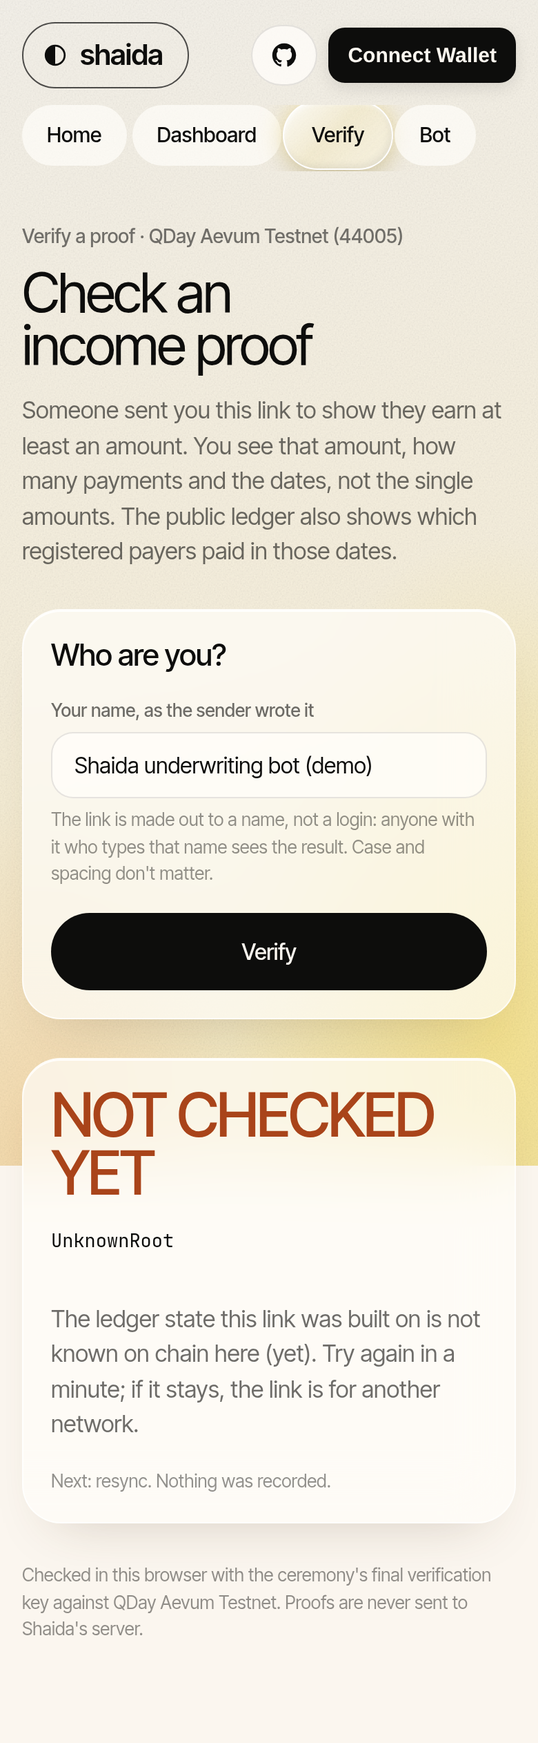
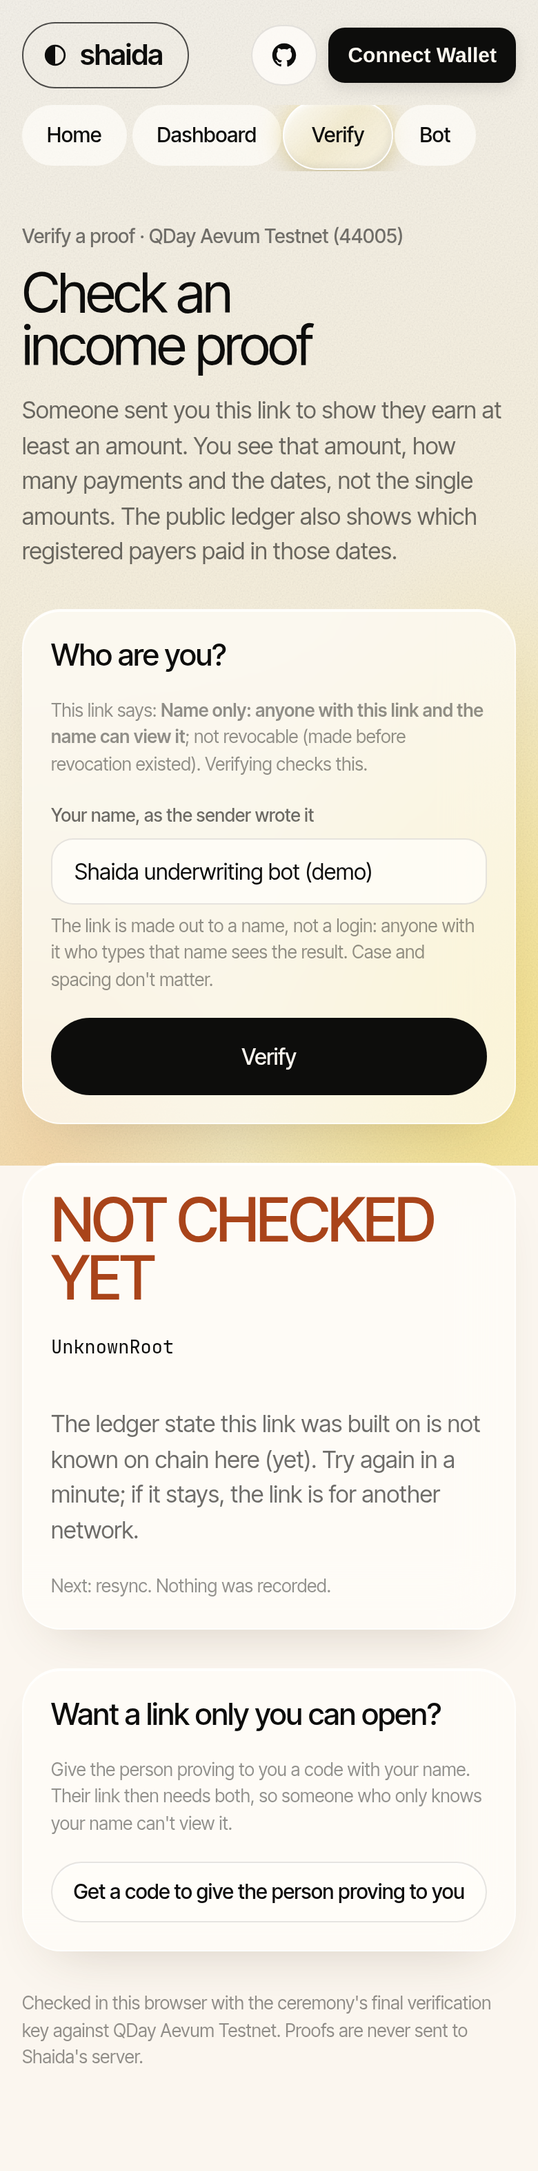
Revocation and reader codes work live on Aevum: Ada revoked a code-protected link and Bola's page said REVOKED
The builder clicked the live check on shaida.onrender.com at fc4ba32:
- Bola's code gives VALID with name and code, and WrongReader with the name alone.
- Ada revokes from Shared proofs, and Bola then gets REVOKED in block 4139250.
- Run 2's v1 link is still VALID and labelled not revocable.
Seven of the builder's eight screenshots are in evidence/revoke-live-44005/. The eighth showed part of Bola's code
and was left out.

The agent checked, read-only:
- Exactly one Revoked event since the deploy (blocks 4135878–4139990): tx 0x920fd1f6…, sent by the relayer
  (nonce 23, its latest), 77,796 gas.
- The relayer's balance fell by exactly that gas, and revokedAt(salt) = 4139250.
- The budget ledger has rows D1 (deploy) and V1 (revoke).

make judge-ui now also checks the live revoke on chain, run 1's "not revocable" label and the reader-code card,
with the code masked. It passed against the live site at 390 px, with nothing sent.

shaida-sdk 0.2.0 is on npm. Its registry integrity equals the tarball packed at a801d64, and the tag
shaida-sdk-v0.2.0 points at fc4ba32. npm-check now records each version's packed integrity and writes one file per
version. Its first 0.2.0 run failed on the hard-coded 0.1.0 integrity; that log is kept.

Records:
- CLAIMS: CL56 and CL57 carry the live results; new CL59 for the npm 0.2.0 release.
- README: judge path step 6, and the SDK lines.
- SUBMISSION, the SDK README and PUBLISHING are updated.
[…]

Changed region(s): [[0.0, 0.0, 1.0, 0.958]]

diff --git a/CLAIMS.md b/CLAIMS.md
@@ -56,7 +56,8 @@ title). Refuted or demoted claims stay here, marked NOT PROVEN, with the reason 
 | CL52 | The web app's network config is required and checked as a whole: an unset, unknown or repeated `NEXT_PUBLIC_NETWORKS` key, or a listed network without valid contract addresses, is the named refusal `WebConfigError` at build and at server start (exit 78), never a fallback to production. The agent card says `NotConfigured` instead of a chain id when there is no network. The income key's default of "final" is deliberate. | PROVEN | `web/src/lib/web-config.ts` `test:W10` `test:W11` `test:W12` `test:W13` `test:W14` `test:W15` `test:U19f` `test:P01` `CLAUDE.md` |
 | CL53 | `shaida-sdk` (0.1.0, verify side) verifies a Shaida link with the Aevum RPC as its only network: VALID with the proven sum, count and ledger dates, or INVALID / INCONCLUSIVE with a closed code. A link refused on its content reads nothing. A down RPC, a chain behind the proof, an RPC on another chain or a bad reader name is INCONCLUSIVE, never a pass. An edited verification key or network config is refused by its pinned hash. `underwrite` runs the bot's engine in-process and gives the live bot's own decision ids. The public API equals the README's reference, and the bundle inlines no GPL code and names no host but the bundled RPC. | PROVEN | `packages/sdk` `test:S01` `test:S03` `test:S04` `test:S05` `test:S06` `test:S07` `test:S08` `test:S09` `test:S10` `test:S11` `test:S12` `test:S13` `test:S14` `test:S15` `test:S16` `test:S17` `evidence/sdk/live-44005.md` |
 | CL54 | Integrators have two working examples that import `shaida-sdk` only. `examples/verify-node.mjs` (13 lines) and the `examples/rental-check` page (a demo landlord platform, run in headless Chromium at 390 px) both verify against the fork fixture and against run 1 on 44005. The tarball to publish (`shaida-sdk`, its manifest without devDependencies, scripts or any `@shaida/` name) installs into an empty project with npm, and the Node example runs from there. | PROVEN | `examples/verify-node.mjs` `examples/rental-check/app.js` `test:S18` `test:S19` `evidence/sdk/rental-check-390.md` `evidence/sdk/pack.md` |
-| CL55 | `shaida-sdk@0.1.0` is on npm (https://www.npmjs.com/package/shaida-sdk). The registry's tarball has the same sha512 as the one packed at 134d704, and `npm install shaida-sdk@0.1.0` from registry.npmjs.org into an empty project runs `examples/verify-node.mjs` (run 1 on 44005: VALID) and typechecks a nodenext consumer. | PROVEN | `packages/sdk/scripts/npm-check.mjs` `evidence/sdk/npm-install.md` `evidence/sdk/pack.md` |
-| CL56 | A holder can revoke a proof link made since D35, and every verifier then refuses it. Its salt is Poseidon(4, a fresh secret kept in the holder's vault); `Revocations.revoke(secret)` records the salt's block once (a second revoke and a secret of 0 or ≥ the field order are refused by name), and only the secret's holder can mark that salt. The core verification reads `revokedAt(salt)` at the pinned block for every link, v1 included: a revoked link is INVALID ProofRevoked with the block and time, also when edited to say v1; an unreadable registry is INCONCLUSIVE, never VALID; an old v1 link stays VALID and is labelled not revocable. The bot DECLINEs a revoked link and is INCONCLUSIVE when the registry can't be read; `shaida-sdk` 0.2.0 does the same. The relayer's revoke route sends one legacy tx per salt, ever, through a lost answer, a restart and two processes at once, never logs the secret, and counts against the budget. Fork: a whole revoke tx is 77,784–77,796 gas, the deploy 237,696. | PROVEN | `contracts/src/Revocations.sol` `test:RV01` `test:RV02` `test:RV03` `test:RV04` `test:RV05` `test:RV10` `test:RV11` `test:RV12` `test:RV13` `test:RV14` `test:RV15` `test:RP01` `test:U30` `test:U31` `test:S20` `test:S21` `test:S22` `test:R40` `test:R41` `test:R42` `test:R43` `test:R46` `test:RV20` `test:RV22` `test:RV23` `evidence/revocations-gas.md` `evidence/mutation-revoke-code.md` `evidence/revocations-44005.md` |
-| CL57 | Reader codes (D36): /v makes an 80-bit code (16 Crockford base32 characters) in the browser for the reader to give the person proving to them; a link built with it binds Poseidon(5, nameHash, Poseidon(code)) and verifies VALID only with that name and code. The code is not in the link and the vault has no field for it. The bot stays name-only: a code-protected link is DECLINE WrongReader. Removing the code binding, or accepting a code link without a code, fails the tests named for it. | PROVEN | `packages/shaida-proofs/src/reader-code.ts` `test:RC01` `test:RC02` `test:RC03` `test:RC04` `test:RC05` `test:RC06` `test:RC07` `test:RV24` `test:U32` `test:S24` `evidence/mutation-revoke-code.md` `evidence/reader-code-work.md` |
+| CL55 | `shaida-sdk@0.1.0` is on npm (https://www.npmjs.com/package/shaida-sdk). The registry's tarball has the same sha512 as the one packed at 134d704, and `npm install shaida-sdk@0.1.0` from registry.npmjs.org into an empty project runs `examples/verify-node.mjs` (run 1 on 44005: VALID) and typechecks a nodenext consumer. | PROVEN | `packages/sdk/scripts/npm-check.mjs` `evidence/sdk/npm-install-0.1.0.md` `evidence/sdk/pack.md` |
+| CL56 | A holder can revoke a proof link made since D35, and every verifier then refuses it. Its salt is Poseidon(4, a fresh secret kept in the holder's vault); `Revocations.revoke(secret)` records the salt's block once (a second revoke and a secret of 0 or ≥ the field order are refused by name), and only the secret's holder can mark that salt. The core verification reads `revokedAt(salt)` at the pinned block for every link, v1 included: a revoked link is INVALID ProofRevoked with the block and time, also when edited to say v1; an unreadable registry is INCONCLUSIVE, never VALID; an old v1 link stays VALID and is labelled not revocable. The bot DECLINEs a revoked link and is INCONCLUSIVE when the registry can't be read; `shaida-sdk` 0.2.0 does the same. The relayer's revoke route sends one legacy tx per salt, ever, through a lost answer, a restart and two processes at once, never logs the secret, and counts against the budget. Fork: a whole revoke tx is 77,784–77,796 gas, the deploy 237,696. Live on 44005 (site at fc4ba32, Revocations `0x3b19c8f3…f2e4`, deploy 237,696 gas): Ada (demo) revoked her code-protected link from Shared proofs; the relayer sent one revoke (block 4139250, 77,796 gas), the only revoke since the deploy; Bola's /v then said REVOKED with that block. Old links stay VALID with the registry live (run 1 in the browser and the SDK, run 2 in the browser), and the bot's sample keeps its decision ids. | PROVEN | `contracts/src/Revocations.sol` `test:RV01` `test:RV02` `test:RV03` `test:RV04` `test:RV05` `test:RV10` `test:RV11` `test:RV12` `test:RV13` `test:RV14` `test:RV15` `test:RP01` `test:U30` `test:U31` `test:S20` `test:S21` `test:S22` `test:R40` `test:R41` `test:R42` `test:R43` `test:R46` `test:RV20` `test:RV22` `test:RV23` `evidence/revocations-gas.md` `evidence/mutation-revoke-code.md` `evidence/revocations-44005.md` `evidence/revoke-live-44005.md` `evidence/judge-ui/report-390.md` |
+| CL57 | Reader codes (D36): /v makes an 80-bit code (16 Crockford base32 characters) in the browser for the reader to give the person proving to them; a link built with it binds Poseidon(5, nameHash, Poseidon(code)) and verifies VALID only with that name and code. The code is not in the link and the vault has no field for it. The bot stays name-only: a code-protected link is DECLINE WrongReader. Removing the code binding, or accepting a code link without a code, fails the tests named for it. Live on 44005: Bola (demo) made a code on /v, Ada (demo) built a link for "Landlord Bola" with it (labelled Code-protected), and Bola got VALID with his name and code and WrongReader with his name alone. | PROVEN | `packages/shaida-proofs/src/reader-code.ts` `test:RC01` `test:RC02` `test:RC03` `test:RC04` `test:RC05` `test:RC06` `test:RC07` `test:RV24` `test:U32` `test:S24` `evidence/mutation-revoke-code.md` `evidence/reader-code-work.md` `evidence/revoke-live-44005.md` |
 | CL58 | What revocation and reader codes change for a reader and an observer, measured by the privacy fixture's `--revoke` run on the fork (same plan as the fixes run): on Ada's code-protected link the name "Landlord Bola" no longer confirms the reader hash (before, and on Chidi's name-only link, the name matches); the leaf range, payer ids and total bounds a reader learns are unchanged ([5, 16] for Ada's 7.45). Chidi's revocation shows anyone its block and time, sent by the relayer, not the holder; with no attest of that link, the observer cannot tie the revoke tx to a payment, payer or holder. Observer results otherwise equal the fixes run (A5 8/8, A6 3/3, A3 6/8, A2 16/28, A1 0/8). A repeat revoke request is answered from the first record with nothing sent, and the reader code is in neither the fixture's output nor its log. | PROVEN | `evidence/privacy-audit.md` `evidence/privacy-audit/reader-fork-revoke.json` `evidence/privacy-audit/observer-fork-revoke.json` `packages/shaida-pay/scripts/privacy-fixture.ts` |
+| CL59 | `shaida-sdk@0.2.0` is on npm (https://www.npmjs.com/package/shaida-sdk/v/0.2.0, dist-tag latest) and tagged `shaida-sdk-v0.2.0` on fc4ba32. The registry's tarball has the same sha512 as the one packed at a801d64, whose bundled network names Revocations `0x3b19c8f3…f2e4` under the pin `ccaf1682…ca7b`. `npm install shaida-sdk@0.2.0` from registry.npmjs.org into an empty project runs `examples/verify-node.mjs` (run 1 on 44005: VALID) and typechecks a nodenext consumer. With the registry live, the SDK's live check passes every row, and the bot's sample link gives the same decision ids as 0.1.0. | PROVEN | `evidence/sdk/npm-install-0.2.0.md` `evidence/sdk/pack.md` `evidence/sdk/live-44005.md` `packages/sdk/scripts/npm-check.mjs` `test:S12b` |

diff --git a/evidence/judge-ui/report-390.md b/evidence/judge-ui/report-390.md
@@ -4,32 +4,36 @@ Generated by `node tools/ui-judge-live.mjs --width 390 --base https://shaida.onr
 
 Result: passed
 
-- 2026-11-25T07:29:05.758Z /api/health: commit 9aec40618ec00cdea758e2cd0996eb0d1623bc53, networks [{"key":"aevum","chainId":44005}], store redis
-- 2026-11-25T07:29:10.098Z landing: "See a live proof" links run 1's proof (1601 characters)
-- 2026-11-25T07:29:13.073Z screenshot 390-01-landing.png at 390 px (horizontal overflow 0px)
-- 2026-11-25T07:29:19.318Z Landlord Bola → VALID: VALID Paid at least 3 tUSD8 in 3 payments from registered payers, between 22 Nov 2026 and 22 Nov 2026. At least 3 tUSD8 Count 3 payments Period 22 Nov 2026 – 22
-- 2026-11-25T07:29:20.156Z Check on-chain: IncomeVerifier.check passed for 1 proof at block 4070657. Nothing was sent.
-- 2026-11-25T07:29:21.651Z screenshot 390-02-valid-on-chain.png at 390 px (horizontal overflow 0px)
-- 2026-11-25T07:29:26.308Z threshold edited in the link (3 → 4 tUSD8) → INVALID ProofInvalid: NOT VALID ProofInvalid This link does not prove what it says. It may have been edited, or it is not a Shaida proof link. Next: rebuild proof
-- 2026-11-25T07:29:27.438Z screenshot 390-03-attack-threshold.png at 390 px (horizontal overflow 0px)
-- 2026-11-25T07:29:31.129Z another reader name (Tenant Chidi) → INVALID WrongReader: NOT VALID WrongReader This link was made for someone else. Check the spelling of your name, or ask for a link made for you. Next: ask for a 
-- 2026-11-25T07:29:32.168Z screenshot 390-04-attack-reader.png at 390 px (horizontal overflow 0px)
-- 2026-11-25T07:29:35.937Z expiry edited in the link (+30 days) → INVALID ContextMismatch: NOT VALID ContextMismatch The link's reader, expiry or salt do not match its proofs. It was altered. Next: link was altered. Nothing was rec
-- 2026-11-25T07:29:36.980Z screenshot 390-05-attack-expiry.png at 390 px (horizontal overflow 0px)
-- 2026-11-25T07:29:40.766Z a malformed link (error state) → INVALID ProofInvalid: NOT VALID ProofInvalid This link does not prove what it says. It may have been edited, or it is not a Shaida proof link. Next: rebuild proof
-- 2026-11-25T07:29:41.803Z screenshot 390-06-error-malformed.png at 390 px (horizontal overflow 0px)
-- 2026-11-25T07:29:45.966Z a proof over a ledger root 44005 does not know (stale/resync state) → INCONCLUSIVE UnknownRoot: NOT CHECKED YET UnknownRoot The ledger state this link was built on is not known on chain here (yet). Try again in a minute; if it stays, th
-- 2026-11-25T07:29:47.163Z screenshot 390-07-inconclusive-unknown-root.png at 390 px (horizontal overflow 0px)
-- 2026-11-25T07:29:51.846Z README console snippet (threshold → 4 tUSD8) pasted on the page → INVALID ProofInvalid
-- 2026-11-25T07:29:52.956Z screenshot 390-07b-attack-console-snippet.png at 390 px (horizontal overflow 0px)
-- 2026-11-25T07:29:53.598Z /v with no fragment (empty state): No proof in this link Open the full link you were sent: the proof is the long part after #.
-- 2026-11-25T07:29:54.787Z screenshot 390-08-empty-v.png at 390 px (horizontal overflow 0px)
-- 2026-11-25T07:29:55.433Z /app in a fresh profile (no vault, no wallet): Dashboard · QDay Aevum Testnet (44005) Your private payments Everything here is read from the chain or from the vault in this browser. Secrets never leave it. Vault locked: counts show — until you unl
-- 2026-11-25T07:29:57.178Z screenshot 390-09-dashboard-fresh.png at 390 px (horizontal overflow 0px)
-- 2026-11-25T07:30:01.413Z bot rent-check (sample URL, form prefilled) → APPROVE: Rent check (landlord) · rent-check@1 APPROVE The proof checks out and meets every rule of this policy. At least 1 tUSD8 Payments 3 Period 23 Nov 2026 – 23 Nov 2
-- 2026-11-25T07:30:03.046Z screenshot 390-10-bot-approve.png at 390 px (horizontal overflow 0px)
-- 2026-11-25T07:30:07.186Z bot revenue-credit (sample URL, form prefilled) → DECLINE (BelowMinThreshold,TooFewPayments,PeriodTooShort): Revenue-based credit (lender) · revenue-credit@1 DECLINE BelowMinThreshold The proof shows at least 1 tUSD8; this policy needs at least 10 tUSD8. TooFewPayments
-- 2026-11-25T07:30:08.657Z screenshot 390-11-bot-decline.png at 390 px (horizontal overflow 0px)
-- 2026-11-25T07:30:10.836Z bot rent-check → DECLINE (WrongReader): Rent check (landlord) · rent-check@1 DECLINE WrongReader The link was made for another reader, not for this bot. Nothing was recorded. decision 5e435c64c148574b
-- 2026-11-25T07:30:12.238Z screenshot 390-12-bot-wrong-reader.png at 390 px (horizontal overflow 0px)
-- 2026-11-25T07:30:13.921Z browser: Chromium 153.0.8010.52 Arch Linux headless; nothing was recorded or sent
+- 2026-11-26T03:05:02.928Z /api/health: commit fc4ba32627440c4271376f2443fbc1a6be6fa167, networks [{"key":"aevum","chainId":44005}], store redis
+- 2026-11-26T03:05:03.839Z Revocations.revokedAt(the live revoke's salt) = 4139250 (eth_call, nothing sent)
+- 2026-11-26T03:05:21.114Z landing: "See a live proof" links run 1's proof (1601 characters)
+- 2026-11-26T03:05:24.474Z screenshot 390-01-landing.png at 390 px (horizontal overflow 0px)
+- 2026-11-26T03:05:31.534Z Landlord Bola → VALID: VALID Paid at least 3 tUSD8 in 3 payments from registered payers, between 22 Nov 2026 and 22 Nov 2026. At least 3 tUSD8 Count 3 payments Period 22 Nov 2026 – 22
+- 2026-11-26T03:05:31.539Z run 1's label: This link says: Name only: anyone with this link and the name can view it; not revocable (made before revocation existed). Verifying checks this.
+- 2026-11-26T03:05:32.375Z Check on-chain: IncomeVerifier.check passed for 1 proof at block 4140281. Nothing was sent.
+- 2026-11-26T03:05:34.044Z screenshot 390-02-valid-on-chain.png at 390 px (horizontal overflow 0px)
+- 2026-11-26T03:05:39.045Z threshold edited in the link (3 → 4 tUSD8) → INVALID ProofInvalid: NOT VALID ProofInvalid This link does not prove what it says. It may have been edited, or it is not a Shaida proof link. Next: rebuild proof
+- 2026-11-26T03:05:40.308Z screenshot 390-03-attack-threshold.png at 390 px (horizontal overflow 0px)
+- 2026-11-26T03:05:43.984Z another reader name (Tenant Chidi) → INVALID WrongReader: NOT VALID WrongReader This link was made for someone else. Check the spelling of your name, or ask for a link made for you. Next: ask for a 
+- 2026-11-26T03:05:45.244Z screenshot 390-04-attack-reader.png at 390 px (horizontal overflow 0px)
+- 2026-11-26T03:05:49.547Z expiry edited in the link (+30 days) → INVALID ContextMismatch: NOT VALID ContextMismatch The link's reader, expiry or salt do not match its proofs. It was altered. Next: link was altered. Nothing was rec
+- 2026-11-26T03:05:50.856Z screenshot 390-05-attack-expiry.png at 390 px (horizontal overflow 0px)
+- 2026-11-26T03:05:55.007Z a malformed link (error state) → INVALID ProofInvalid: NOT VALID ProofInvalid This link does not prove what it says. It may have been edited, or it is not a Shaida proof link. Next: rebuild proof
+- 2026-11-26T03:05:56.509Z screenshot 390-06-error-malformed.png at 390 px (horizontal overflow 0px)
+- 2026-11-26T03:06:01.619Z a proof over a ledger root 44005 does not know (stale/resync state) → INCONCLUSIVE UnknownRoot: NOT CHECKED YET UnknownRoot The ledger state this link was built on is not known on chain here (yet). Try again in a minute; if it stays, th
+- 2026-11-26T03:06:03.068Z screenshot 390-07-inconclusive-unknown-root.png at 390 px (horizontal overflow 0px)
+- 2026-11-26T03:06:08.435Z README console snippet (threshold → 4 tUSD8) pasted on the page → INVALID ProofInvalid
+- 2026-11-26T03:06:09.707Z screenshot 390-07b-attack-console-snippet.png at 390 px (horizontal overflow 0px)
+- 2026-11-26T03:06:11.112Z /v with no fragment (empty state): No proof in this link Open the full link you were sent: the proof is the long part after #.
+- 2026-11-26T03:06:12.323Z screenshot 390-08-empty-v.png at 390 px (horizontal overflow 0px)
+- 2026-11-26T03:06:12.351Z /v "Get a code to give the person proving to you": a 16-character Crockford code in 4 groups, shown once (not written here; masked in the screenshot)
+- 2026-11-26T03:06:13.593Z screenshot 390-08b-reader-code.png at 390 px (horizontal overflow 0px)
+- 2026-11-26T03:06:14.274Z /app in a fresh profile (no vault, no wallet): Dashboard · QDay Aevum Testnet (44005) Your private payments Everything here is read from the chain or from the vault in this browser. Secrets never leave it. Vault locked: counts show — until you unl
+- 2026-11-26T03:06:16.239Z screenshot 390-09-dashboard-fresh.png at 390 px (horizontal overflow 0px)
+- 2026-11-26T03:06:26.076Z bot rent-check (sample URL, form prefilled) → APPROVE: Rent check (landlord) · rent-check@1 APPROVE The proof checks out and meets every rule of this policy. At least 1 tUSD8 Payments 3 Period 23 Nov 2026 – 23 Nov 2
+- 2026-11-26T03:06:27.965Z screenshot 390-10-bot-approve.png at 390 px (horizontal overflow 0px)
+- 2026-11-26T03:06:32.147Z bot revenue-credit (sample URL, form prefilled) → DECLINE (BelowMinThreshold,TooFewPayments,PeriodTooShort): Revenue-based credit (lender) · revenue-credit@1 DECLINE BelowMinThreshold The proof shows at least 1 tUSD8; this policy needs at least 10 tUSD8. TooFewPayments
+- 2026-11-26T03:06:33.699Z screenshot 390-11-bot-decline.png at 390 px (horizontal overflow 0px)
+- 2026-11-26T03:06:35.817Z bot rent-check → DECLINE (WrongReader): Rent check (landlord) · rent-check@1 DECLINE WrongReader The link was made for another reader than this policy's. Nothing was recorded. decision 5e435c64c148574
+- 2026-11-26T03:06:37.243Z screenshot 390-12-bot-wrong-reader.png at 390 px (horizontal overflow 0px)
+- 2026-11-26T03:06:39.067Z browser: Chromium 153.0.8010.52 Arch Linux headless; nothing was recorded or sent

diff --git a/SUBMISSION.md b/SUBMISSION.md
@@ -56,7 +56,7 @@ Shaida is built to be integrated, not to be the place where people verify. There
 - **Agents:** the bot's `/llms.txt`, `/.well-known/agent.json` and `/api/underwrite`, or the same engine in-process
   through the SDK.
 - **Payer side (next):** payroll and payout platforms paying contractors through ShaidaLedger. This is the supply of
-  provable income. It is not in the SDK 0.1.0 (ROADMAP); today it runs in the app.
+  provable income. It is not in the SDK (0.2.0; ROADMAP); today it runs in the app.
 - **Limits that matter at scale** (LIMITS.md):
   - Payer identity is public by design.
   - Totals narrow while there are few payers.
@@ -94,10 +94,10 @@ Weights from qday.io (out of 100). Ecosystem contribution is DoraHacks' extra cr
 | User experience and presentation | 15 | Pay, inbox, prove and verify in the browser at 390 px; named refusals that say whether anything changed; run 2 clicked by a person on the live site | `evidence/live-44005-run2.md`, `evidence/ui-44005/`, `evidence/judge-ui/`, `DESIGN.md` |
 | Technical quality and platform integration | 15 | EIP-3009 gasless deposits; legacy txs; Shanghai opcode check; 1,000-block log paging with a cursor; a restart-safe relayer; the snarkjs gas trap handled; `make gate` from a clean clone | `evidence/presubmit-audit.md`, `evidence/fork-gas.md`, `tools/gate.sh`, D14, D19, D29 |
 | Real-world utility | 15 | Templates for income (landlord), revenue (lender) and disbursements (sponsor); the bot as an API for lenders and agents; `shaida-sdk` so platforms verify in their own product (distribution plan: "How it scales") | D31, D33, `/underwrite`, `/.well-known/agent.json`, `evidence/underwrite-live-44005.md`, `packages/sdk/README.md` |
-| Safety, trust and controls | 15 | Reader binding (name, or name and code), expiry, link revocation, payer revocation; relayer rails and gas budget; the bot's own capped key, opt-in recording; a two-contributor ceremony; a published privacy audit of our own deployment | `THREAT_MODEL.md`, `LIMITS.md`, `ceremony/TRANSCRIPT.md`, `evidence/privacy-audit.md` |
+| Safety, trust and controls | 15 | Reader binding (name, or name and code), expiry, link revocation, payer revocation; relayer rails and gas budget; the bot's own capped key, opt-in recording; a two-contributor ceremony; a published privacy audit of our own deployment | `THREAT_MODEL.md`, `evidence/revoke-live-44005.md`, `LIMITS.md`, `ceremony/TRANSCRIPT.md`, `evidence/privacy-audit.md` |
 | Demo | 10 | Two runs and a bot record on 44005 with tx links; a 60-second judge path with live attacks; read-only commands anyone can paste | `PROOF_PLAN.md`, `evidence/live-44005-run1.md`, `evidence/eligibility.md` |
 | Documentation | 10 | README in judge order with a diagram, contract addresses and reproduction steps; every claim in CLAIMS.md with evidence, checked by the gate | `README.md`, `CLAIMS.md`, `PRD.md`, `DECISIONS.md`, `DEPLOY_RENDER.md` |
-| Ecosystem contribution | — | `shaida-sdk` on npm ([shaida-sdk@0.1.0](https://www.npmjs.com/package/shaida-sdk)): any Aevum app verifies a Shaida link (and runs a policy) against the RPC alone, with the key and network pinned by hash; a Node example and a landlord page built on it; `@shaida/proofs` and `@shaida/underwrite` underneath; `tools/check-shanghai.mjs` extended to Gloam | `packages/sdk/README.md`, https://www.npmjs.com/package/shaida-sdk, `evidence/sdk/npm-install.md`, `examples/`, `NOTICE.md` |
+| Ecosystem contribution | — | `shaida-sdk` on npm ([shaida-sdk@0.2.0](https://www.npmjs.com/package/shaida-sdk/v/0.2.0), with revocation and reader codes; 0.1.0 before it): any Aevum app verifies a Shaida link (and runs a policy) against the RPC alone, with the key and network pinned by hash; a Node example and a landlord page built on it; `@shaida/proofs` and `@shaida/underwrite` underneath; `tools/check-shanghai.mjs` extended to Gloam | `packages/sdk/README.md`, https://www.npmjs.com/package/shaida-sdk, `evidence/sdk/npm-install-0.2.0.md`, `examples/`, `NOTICE.md` |
 
 ## What is not built (stated on the page too)
 On-chain bundle checks, reader authentication beyond a shared code (and codes for the bot), a relayer key pool, signed bot decisions,
@@ -120,7 +120,7 @@ is public by design, and at today's volume timing links sweeps to payments (LIMI
 | Nov 23–24 | `a5f4f00`–`159545d` | Underwriting bot, templates, agent card; live APPROVE/DECLINE and the bot's on-chain record |
 | Nov 25 | `db8c13d`–`9aec406` | Privacy audit of the live deployment; pitch corrected; quick fixes F3, F4, F5, F8, F9 |
 | Nov 25 | `495ebf1`–`f745bb2` | Judge docs: README, PROOF_PLAN, SUBMISSION, video kit, `make eligibility`, `make judge-ui`, pre-submit audit; `shaida-sdk` 0.1.0 on npm |
-| Nov 25–26 | feat/revoke-and-reader-code | Link revocation (Revocations contract, link v2) and reader codes; `shaida-sdk` 0.2.0 packed |
+| Nov 25–26 | `257fd52`–`fc4ba32` | Link revocation (Revocations contract, link v2) and reader codes; Revocations deployed on 44005; `shaida-sdk` 0.2.0 on npm; **live revoke check** |
 
 ## Credits and licences (organisers' attribution rules)
 - **Gloam** (MIT, © 2026 Gloam), https://github.com/gloamtrade/gloam: the shielded pool, final-ceremony verifiers,

diff --git a/evidence/revoke-live-44005.md b/evidence/revoke-live-44005.md
@@ -1,0 +1,51 @@
+# Revocation and reader codes, live check on Aevum testnet (44005), 2026-11-26
+
+The hosted site at https://shaida.onrender.com, commit `fc4ba32` (from `/api/health`), built with Revocations
+`0x3b19c8f3…f2e4` (evidence/revocations-44005.md). Personas are demo. The builder clicked it by hand in Firefox, as
+in the checklist; the agent checked the chain afterwards, read-only. Facts: [run.json](revoke-live-44005/run.json).
+
+## What the builder did
+1. **Bola** (profile `shaida-acme-bola`), `/v` → "Get a code to give the person proving to you" → copied it → gave
+   it to Ada. The code is in no file of this repo: the one screenshot of the card that showed part of it was left
+   out.
+2. **Ada**, `/app/prove`: Income, for a landlord; reader "Landlord Bola" with Bola's code; 23 Nov 2026 (live run
+   2's three payments); at least 1 tUSD8. Built in **21.3 s** in the browser (1 proof), checked VALID there; the card
+   says Protection **Code-protected**, Revocable **Yes, from Shared proofs**, expires 27 Dec 2026 →
+   [02](revoke-live-44005/02-ada-link-ready-code-protected.png).
+3. **Bola** opens the link with his name and code → **VALID**: at least 1 tUSD8 in 3 payments, 23 Nov 2026; Reader
+   check "Code-protected"; Revocation "Not revoked (checked on chain at the same block)" →
+   [03](revoke-live-44005/03-bola-valid-name-and-code.png). With the code cleared → **WrongReader**, "This link is
+   code-protected: it needs your name and the reader code you gave the sender" →
+   [04](revoke-live-44005/04-bola-wrong-reader-name-only.png).
+4. **Ada**, `/app/shared` → Revoke → the confirm ("Anyone you shared this with will see it as revoked. This can't be
+   undone.") → "Revoke it" → **Revoking…** → **Revoked in block 4139250** →
+   [05](revoke-live-44005/05-ada-revoking.png), [06](revoke-live-44005/06-ada-revoked-in-block.png).
+5. **Bola** verifies again → **REVOKED** ProofRevoked, "Revoked on chain in block 4139250, 26 Nov 2026, 03:48 your
+   time" → [07](revoke-live-44005/07-bola-revoked.png).
+6. An old link: the builder opened **live run 2's** link (23 Nov, at least 1 tUSD8; not run 1's) → **VALID**,
+   Reader check "Name only: anyone with this link and the name can view it", Revocation "Not revocable (made before
+   revocation existed)" → [08](revoke-live-44005/08-run2-v1-valid-not-revocable.png). Run 1's link was checked by
+   the agent instead: `make judge-ui` (VALID, labelled name-only and not revocable) and the SDK's live check (VALID).
+
+Screenshots: 02, 05 and 06 are about 390 px wide; 03, 04, 07 and 08 were taken at desktop width (about 1,300 px).
+The 390 px layout of /v's new states is in [revoke-code-ui/](revoke-code-ui/report-390.md) (fork) and
+[judge-ui/](judge-ui/report-390.md) (live). Not screenshotted by the builder: Bola's Check on-chain on Ada's link.
+
+## Checked by the agent (read-only)
+- **The only revoke.** `Revoked` events of Revocations, read in 1,000-block chunks from its deploy block 4135878 to
+  4139990: exactly one, in block 4139250, tx
+  [`0x920fd1f6…f8b2`](https://explorer-test.qday.info/tx/0x920fd1f6ad1b529440a1500e3215e411ea94c80e21bdc14545c36d9d222ef8b2),
+  salt `0x2c4e9e58…7df60`, `blockNumber` 4139250 in the event data. It is the block Ada's page and Bola's REVOKED
+  name.
+- **The tx.** From the relayer `0xF4945dD5…01422` (nonce 23), to Revocations, selector `0x20c5429b` =
+  `revoke(uint256)`, legacy (type 0), 1 gwei, gas limit 101,134, status 1, **77,796 gas**: the same as every revoke
+  on the fork (evidence/revocations-gas.md). Block time 2026-11-26T02:48:06Z (03:48 at the builder's UTC+1).
+- **The relayer sent nothing else.** Its nonce is 24 after it, and its balance went from 0.020113134 (read before the
+  deploy) to 0.020035338 tQDAY: exactly 77,796 gas at 1 gwei. So this revoke is also the relayer's latest tx.
+- `Revocations.revokedAt(salt)` = 4139250 (eth_call); `make judge-ui` checks it on every run.
+- Old links with the registry live: run 1 VALID in the SDK (`pnpm --filter shaida-sdk live`, evidence/sdk/live-44005.md)
+  and in the browser (`make judge-ui`); the bot's sample link gives the same decision ids as before D35
+  (`a63582509992a400` APPROVE, `1bcd953eed6a1ec1` DECLINE).
+
+The link itself is not kept anywhere: it was code-protected, and verifying it would need the code. That the revoked
+salt is this link's rests on the block (the only revoke, and the block both pages show).

diff --git a/README.md b/README.md
@@ -156,6 +156,20 @@ Personas are demo. The same path, scripted at 390 px: `make judge-ui` ([evidence
    **APPROVE** under `rent-check`. Pick `revenue-credit` and ask again: **DECLINE**, with BelowMinThreshold,
    TooFewPayments and PeriodTooShort. A link made out to Bola gives **WrongReader**. The sample's APPROVE holds
    until about 17 Dec 2026 23:00 UTC, when fewer than 7 days are left on it (ExpiresTooSoon, by design: LIMITS.md).
+6. Revocation and reader codes (D35, D36):
+   - Run 1's VALID from step 2 says **Name only: anyone with this link and the name can view it** and **Not
+     revocable (made before revocation existed)**: it predates both, and still verifies exactly as before.
+   - On **https://shaida.onrender.com/v**, press **Get a code to give the person proving to you**. A reader gives
+     this code to the person proving; their link then needs the name and the code ("Code-protected"). Shown once,
+     made in your browser, sent nowhere. Press "Done, hide it".
+   - The live revoke: Ada (demo) revoked a code-protected link made for Landlord Bola, and Bola's page said
+     **REVOKED** ([the live check](evidence/revoke-live-44005.md), with screenshots). On chain, nothing sent:
+     ```bash
+     cast call 0x3b19c8f3e2f65030ccddebec776c3be32090f2e4 "revokedAt(uint256)(uint256)" \
+       0x2c4e9e589f75d055e66379448132eb16963d94dbf4ab45d711d2e6488757df60 --rpc-url https://rpc-test.qday.info
+     # → 4139250  (the block of the revoke tx 0x920fd1f6…, sent by the relayer)
+     ```
+     That link is not published: opening it needs Bola's code. <!-- CL56 --> <!-- CL57 -->
 
 ## How it works
 **Boundary:** there is no AI. Shaida proves a lower bound on vouched, swept income to a named reader, and nothing
@@ -269,14 +283,14 @@ Packages: `@shaida/proofs` (circuit, witness builder, verifier: reusable), `@sha
 
 ## For integrators
 Another app can verify a Shaida link without this website or its server, talking only to the Aevum RPC:
-- [`shaida-sdk`](packages/sdk/README.md) (0.1.0, verify side) has a 5-line quickstart, the API reference, the
+- [`shaida-sdk`](packages/sdk/README.md) (0.2.0, verify side) has a 5-line quickstart, the API reference, the
   closed codes and the trust model. It provides `verifyIncomeLink`, `decodeIncomeLink`, `checkOnChain`, and
   `underwrite` with the two presets or your own policy. <!-- CL53 -->
-- 0.2.0, in this repository and not yet on npm, adds `readerCode` for code-protected links and `ProofRevoked`, and
-  checks every link against the Revocations registry; 0.1.0 calls keep working (the SDK README's "Upgrading from
-  0.1.0"). <!-- CL56 --> <!-- CL57 -->
-- On npm: [`shaida-sdk@0.1.0`](https://www.npmjs.com/package/shaida-sdk), `npm install shaida-sdk`. A clean install from the registry runs the
-  Node example on 44005 ([evidence/sdk/npm-install.md](evidence/sdk/npm-install.md)). <!-- CL55 -->
+- 0.2.0 adds `readerCode` for code-protected links and `ProofRevoked`, and checks every link against the
+  Revocations registry; 0.1.0 calls keep working (the SDK README's "Upgrading from 0.1.0"). <!-- CL56 --> <!-- CL57 -->
+- On npm: [`shaida-sdk@0.2.0`](https://www.npmjs.com/package/shaida-sdk/v/0.2.0), `npm install shaida-sdk`. A clean
+  install from the registry runs the Node example on 44005
+  ([0.2.0](evidence/sdk/npm-install-0.2.0.md), [0.1.0](evidence/sdk/npm-install-0.1.0.md)). <!-- CL59 --> <!-- CL55 -->
 - [examples/verify-node.mjs](examples/verify-node.mjs) (Node, 13 lines) and
   [examples/rental-check/](examples/rental-check/) (a demo landlord page, in the browser). Both are checked against
   run 1 on 44005 and against the fork fixture. <!-- CL54 -->

diff --git a/evidence/budget.md b/evidence/budget.md
@@ -39,6 +39,8 @@ Gas price on 44005 is 1 gwei, so 1,000,000 gas = 0.001 tQDAY.
 | 2026-11-23, blocks 3942008–3947708 | live run 2, clicked by the builder in Firefox on the hosted site: 10 relayed txs (relayer pays 0.017257327) and 1 attest (reader pays 0.000267065); per-tx rows in [evidence/live-44005-run2.md](live-44005-run2.md) | 11 | 17,524,392 | 0.017524392 (helpers) | 0.925859665 | 4 |
 | 2026-11-23, block 3955537 | B1: fund the underwriting bot `0x5B145B46…77EE2C` with 0.0013 tQDAY, its daily cap of 3 attests × 420,000 gas × 1 gwei (sent by the builder) [`0xefec6eb2…`](https://explorer-test.qday.info/tx/0xefec6eb206fe854ede375aa3207e45481f345749cd69fb6808735a19af157e87) | 1 | 21,000 | 0.001321 | 0.924538665 | 4 |
 | 2026-11-24, block 3959087 | B2: the bot records the live check's approval, `IncomeVerifier.attest` from `0x5B145B46…77EE2C` (recording switched on by the builder; [evidence/underwrite-live-44005.md](underwrite-live-44005.md)) [`0xc2caccd4…`](https://explorer-test.qday.info/tx/0xc2caccd4db89f8b0dccc0d67e7cf7df0491fec304248b2bc58c8fe137075a415) | 1 | 267,053 | 0.000267053 (bot) | 0.924538665 | 4 |
+| 2026-11-26, block 4135878 | D1: `make deploy-revocations-aevum` (run by the builder): Revocations, one create [`0x0f836c20…`](https://explorer-test.qday.info/tx/0x0f836c2031c775e718d8133cf1ec51a72207bb3c7fb5700adac480c324d9e159) ([evidence/revocations-44005.md](revocations-44005.md)) | 1 | 237,696 | 0.000237696 | 0.924300969 | 4 |
+| 2026-11-26, block 4139250 | V1: the live check's revoke, `Revocations.revoke` sent by the relayer (nonce 23) at Ada's (demo) request [`0x920fd1f6…`](https://explorer-test.qday.info/tx/0x920fd1f6ad1b529440a1500e3215e411ea94c80e21bdc14545c36d9d222ef8b2) ([evidence/revoke-live-44005.md](revoke-live-44005.md)) | 1 | 77,796 | 0.000077796 (relayer) | 0.924300969 | 4 |
 
 Every row above comes from receipts (`gasUsed × effectiveGasPrice`) and `eth_getBalance` / `balanceOf` (deploy rows at block
 3811143; funding rows at block 3822171, when the relayer held 0.0384 tQDAY and the reader 0.00063 tQDAY, as sent).

diff --git a/packages/sdk/PUBLISHING.md b/packages/sdk/PUBLISHING.md
@@ -2,11 +2,13 @@
 
 0.1.0 was published by the builder on 2026-11-25 (https://www.npmjs.com/package/shaida-sdk), from the tarball packed at 134d704
 (sha512 `3az4S9…CAtA==`, evidence/sdk/pack.md), and tagged `shaida-sdk-v0.1.0` on 3175fe5. A clean install from the
-registry is checked by `pnpm --filter shaida-sdk npm-check` (evidence/sdk/npm-install.md).
+registry is checked by `pnpm --filter shaida-sdk npm-check` (evidence/sdk/npm-install-0.1.0.md).
 
-0.2.0 (revocation and reader codes, D35/D36) is packed but **not published**. Revocations is deployed on 44005
-(`0x3b19c8f3…f2e4`, block 4135878, evidence/revocations-44005.md), and `AEVUM_TESTNET.revocations` and the network
-pin (`ccaf1682…ca7b`) carry it (test S12b). The builder publishes it.
+0.2.0 (revocation and reader codes, D35/D36) was published by the builder on 2026-11-26 from the tarball packed at
+a801d64 (sha512 `pUiyvZ…5iXA==`, evidence/sdk/pack.md), and tagged `shaida-sdk-v0.2.0` on fc4ba32. Its network names
+Revocations `0x3b19c8f3…f2e4` (block 4135878, evidence/revocations-44005.md) under the pin `ccaf1682…ca7b` (test
+S12b). The registry install: evidence/sdk/npm-install-0.2.0.md. `npm-check` checks each version against the integrity
+recorded in its `PACKED` table, so add the new one there after packing.
 
 ## The name
 The package is the unscoped `shaida-sdk` (D34). The npm scope `@shaida` belongs to another user's account, so the

diff --git a/evidence/sdk/npm-install-0.2.0.md b/evidence/sdk/npm-install-0.2.0.md
@@ -1,0 +1,8 @@
+# shaida-sdk@0.2.0 installed from npm
+
+Generated by `pnpm --filter shaida-sdk npm-check` (packages/sdk/scripts/npm-check.mjs) on 2026-11-26T03:08:31.222Z, in an empty temp project outside the repository (removed afterwards). https://www.npmjs.com/package/shaida-sdk
+
+- npm install shaida-sdk@0.2.0 (npm 11.17.0, node v24.19.0): 38 packages
+- resolved https://registry.npmjs.org/shaida-sdk/-/shaida-sdk-0.2.0.tgz, integrity sha512-pUiyvZkmYDy0bAK2ccqbcXzcYpDIZ2b3BLmrbdmtJ790bbUPainEeqbOm3/jDfGNyjz5/JEyqqTZbbkiHA5iXA== (equal to the tarball packed at a801d64, evidence/sdk/pack.md)
+- examples/verify-node.mjs, run 1 on 44005, "Landlord Bola": VALID: at least 3 tUSD8 from 3 payments, 2026-11-22 to 2026-11-22; expires 2026-12-22T10:51:58.000Z (aevum-testnet, block 4140446)
+- a TypeScript consumer typechecks against the installed declarations (module nodenext, skipLibCheck false)

diff --git a/packages/sdk/README.md b/packages/sdk/README.md
@@ -11,8 +11,8 @@ schema, the asset, the bundle rules, the context opening, the reader and the exp
 root on chain, and Groth16 with the ceremony's final key; and finally the period's dates from the ledger.
 
 Status: 0.2.0, **verify side only**. The payer side (making vouched payments through ShaidaLedger) is not in this
-package; see [ROADMAP](../../ROADMAP.md). Published on npm as [`shaida-sdk`](https://www.npmjs.com/package/shaida-sdk): `npm install shaida-sdk` (0.1.0;
-0.2.0 is packed in this repository and not yet published). To use
+package; see [ROADMAP](../../ROADMAP.md). Published on npm as [`shaida-sdk`](https://www.npmjs.com/package/shaida-sdk): `npm install shaida-sdk` (0.2.0,
+the dist-tag `latest`). To use
 it from this repository, run `pnpm --filter shaida-sdk tarball` and install the `shaida-sdk-0.2.0.tgz` it writes, or
 depend on `packages/sdk` in a pnpm workspace.
 

diff --git a/DECISIONS.md b/DECISIONS.md
@@ -836,7 +836,7 @@ Decision:
   a pushed tag is not moved. The release is tagged `shaida-sdk-v0.1.0` on 3175fe5 (pushed by the builder).
 - **Published.** The builder published `shaida-sdk@0.1.0` from the 134d704 tarball (https://www.npmjs.com/package/shaida-sdk);
   the registry's integrity equals the packed sha512. `pnpm --filter shaida-sdk npm-check` installs it from
-  registry.npmjs.org into an empty project and runs the Node example on 44005 (evidence/sdk/npm-install.md).
+  registry.npmjs.org into an empty project and runs the Node example on 44005 (evidence/sdk/npm-install-0.1.0.md).
 
 
 ## D35: revoking a shared proof link (Revocations, link v2)
